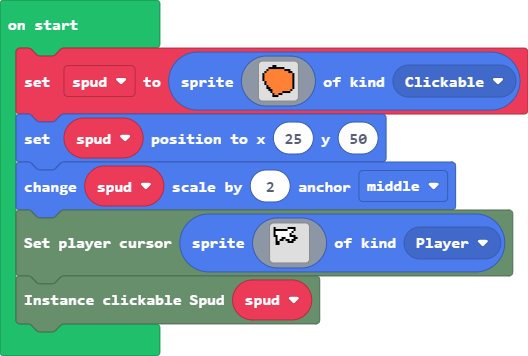
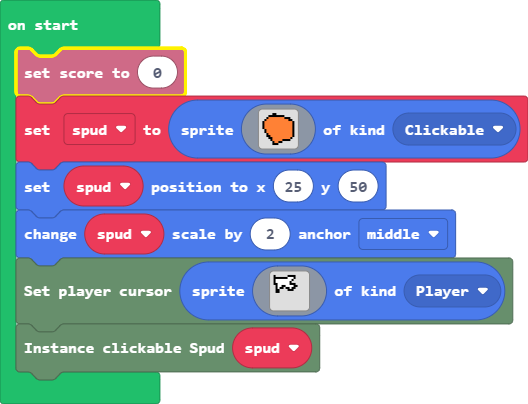
POTATO CLICKIN

diff --git a/score_manager.ts b/score_manager.ts
@@ -1,0 +1,16 @@
+//% block="Clicker" weight=102 color=#c7a844 icon="\uf245"
+namespace score_manager {
+    let scoreF: number = 0 // Floating point value of score
+    let ppc: number = 0.5 // Potatoes per click
+    let ppsMods: number // Potatoes per second modifiers
+
+    export function onSpudClick() {
+        scoreF += ppc
+        updateScoreDisplay()
+    }
+
+    function updateScoreDisplay() {
+        let roundedScore = Math.floor(scoreF)
+        info.setScore(roundedScore)
+    }
+}

diff --git a/button.ts b/button.ts
@@ -1,3 +1,5 @@
+import scoreMng = score_manager
+
 //% blockNamespace="ui"
 namespace button {
     // ALL BUTTONS INHERIT FROM BASE BUTTON CLASS
@@ -13,7 +15,7 @@ namespace button {
 
     export class Spud extends Button {
         trigger() {
-
+            score_manager.onSpudClick()
         }
     }
 }

diff --git a/main.ts b/main.ts
@@ -1,6 +1,7 @@
 namespace SpriteKind {
     export const Clickable = SpriteKind.create()
 }
+info.setScore(0)
 let spud = sprites.create(img`
     . . . . . f f . . . . . . . . . 
     . . . f f f f f f f f . . . . . 
